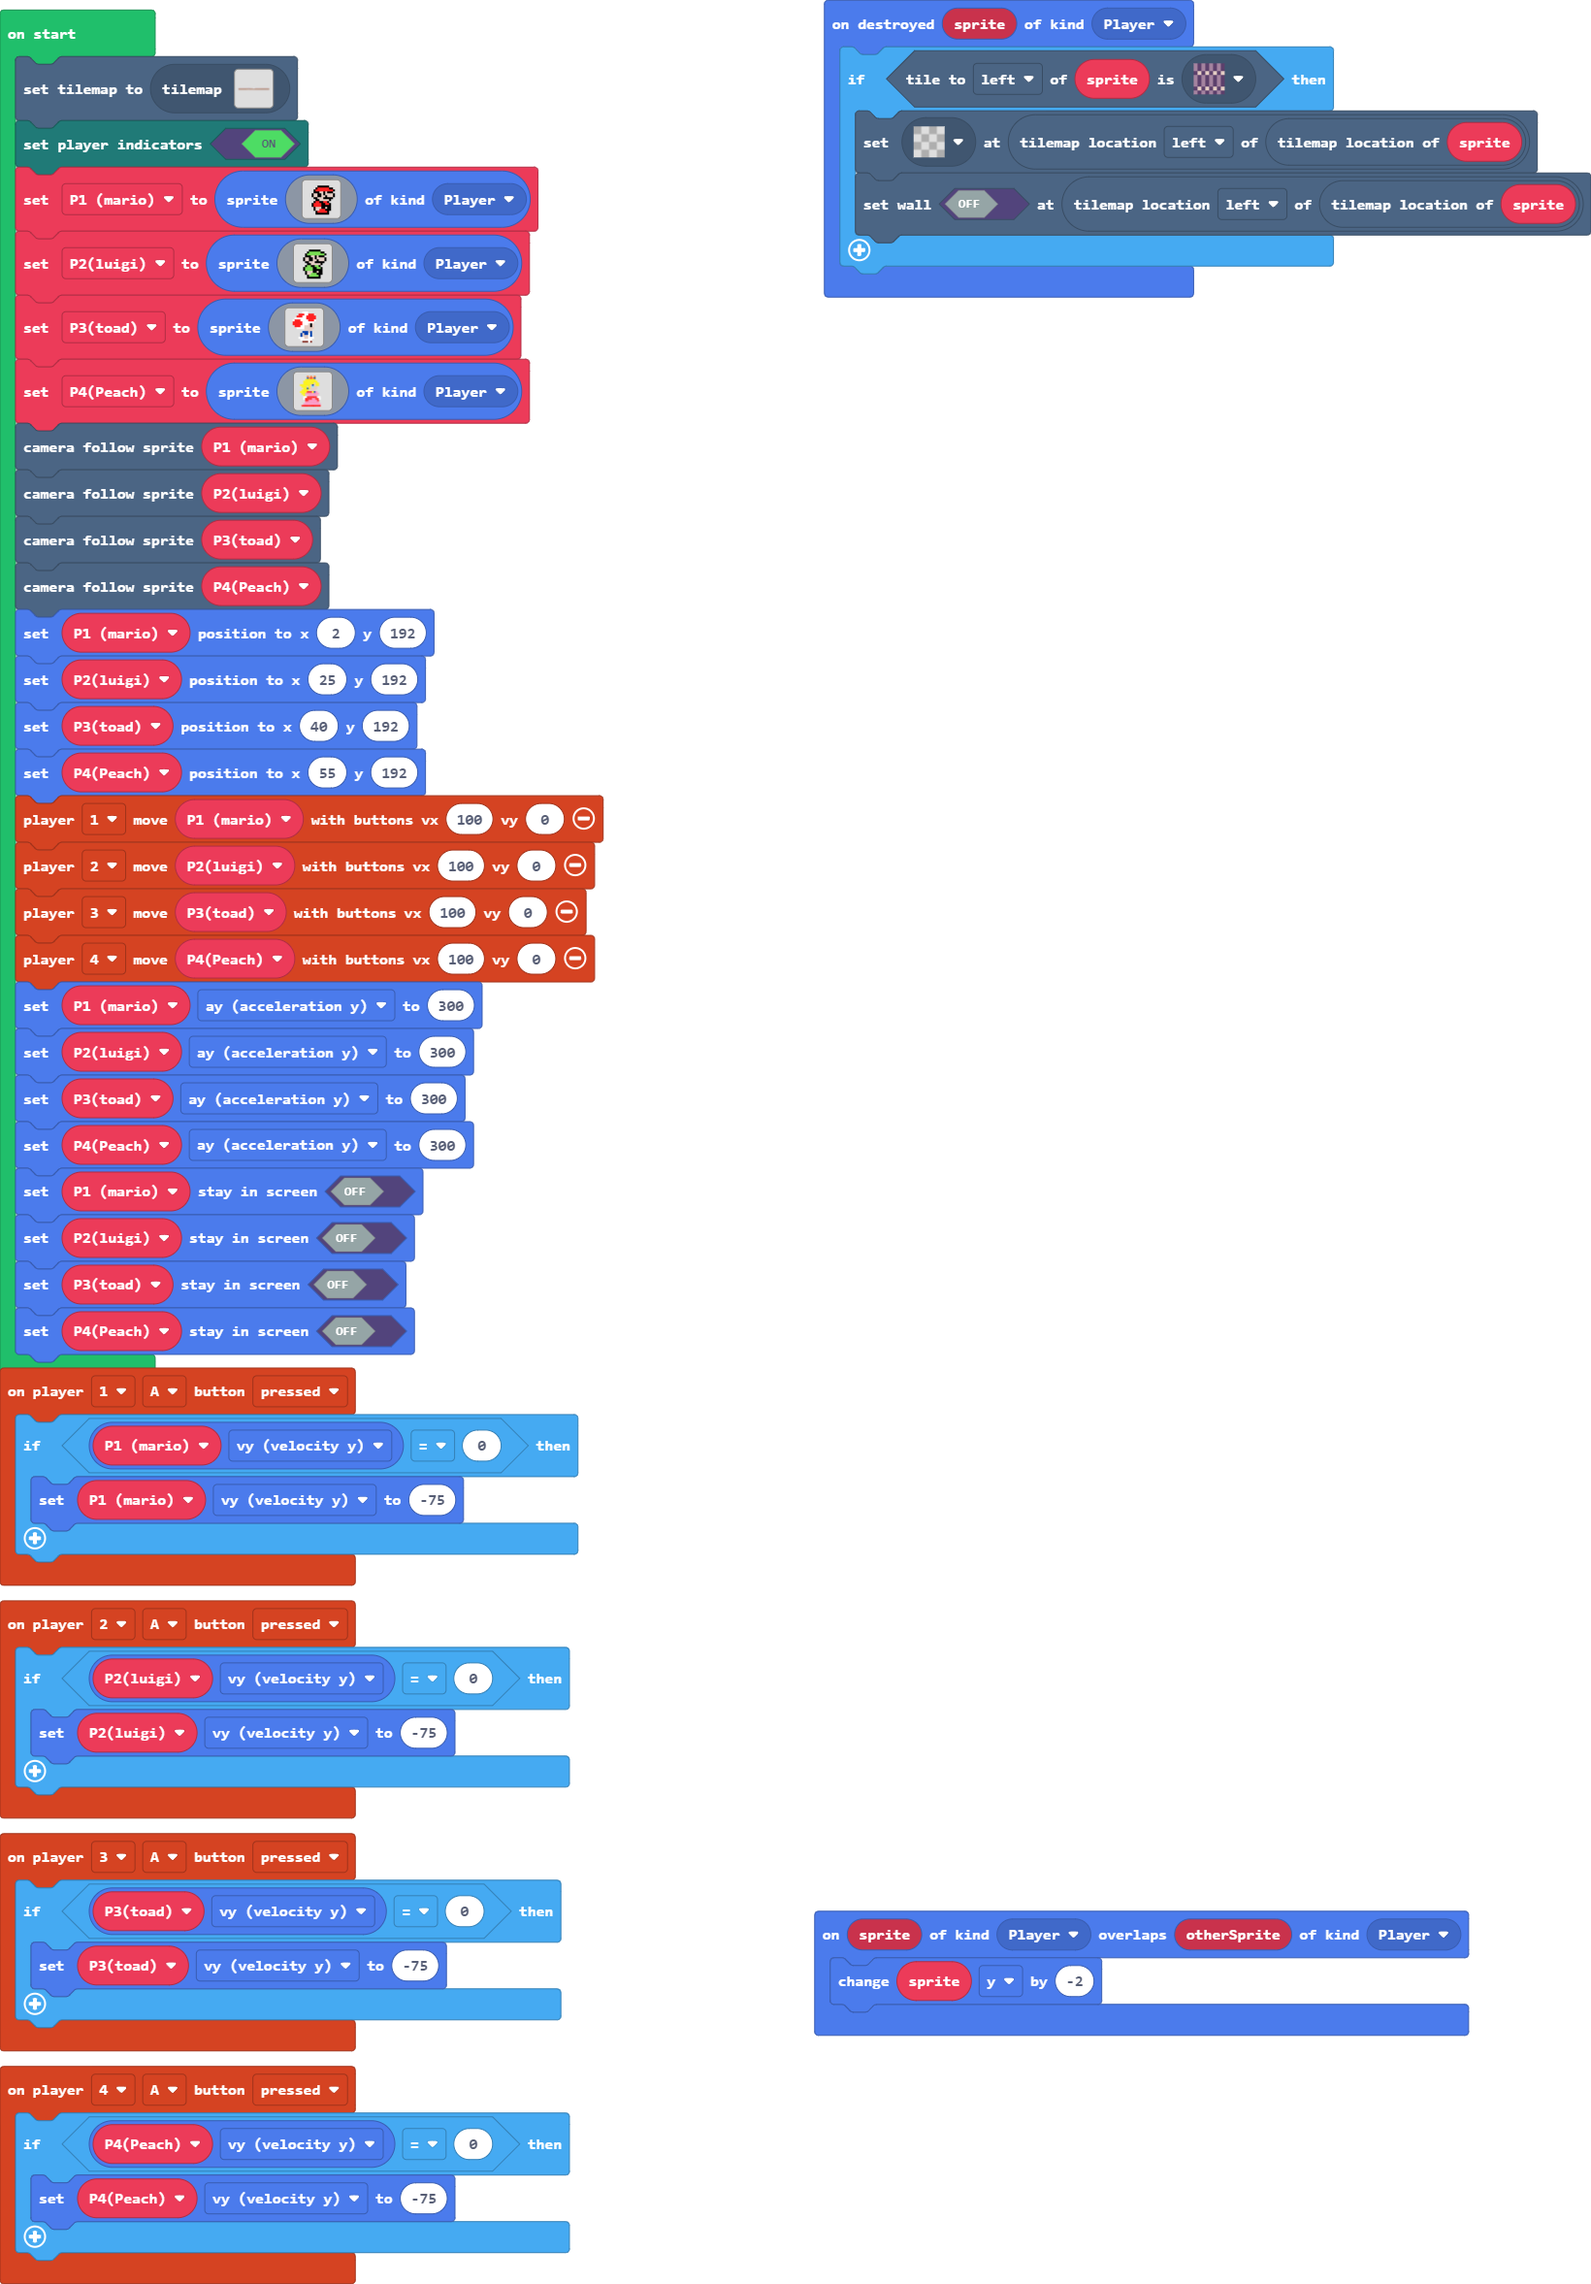
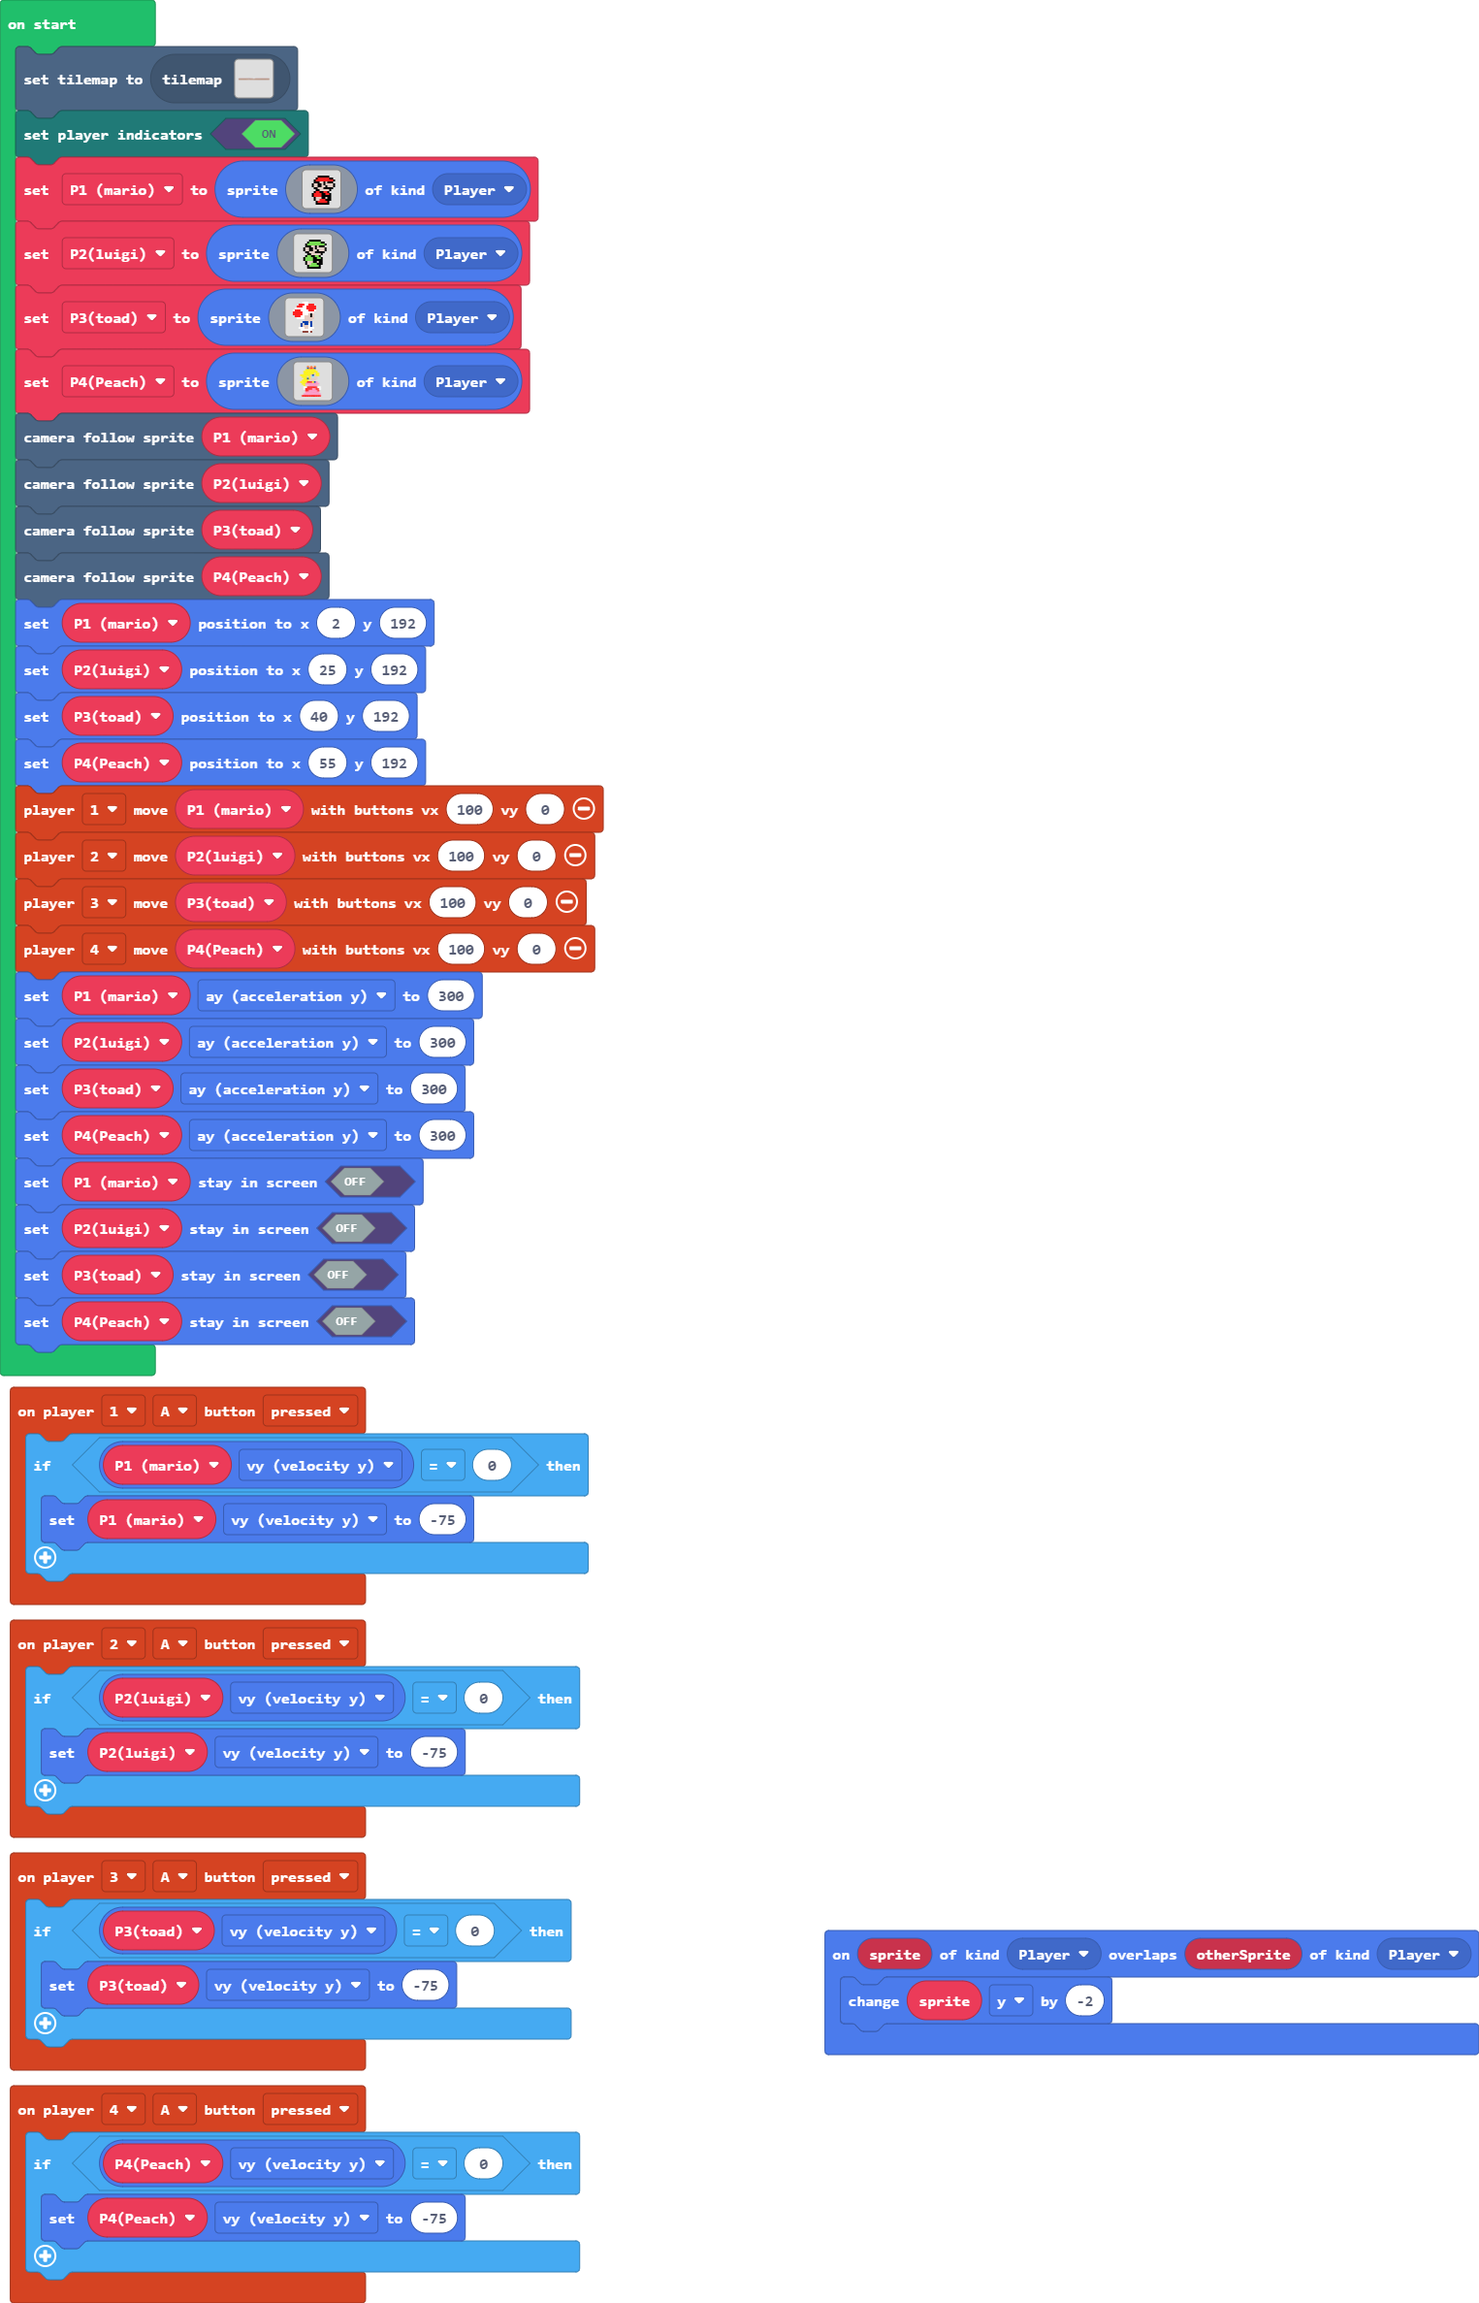
Update main.blocks, main.ts

Changed region(s): [[0.0, 0.0, 0.4315, 1.0], [0.4931, 0.0, 1.0, 0.1551], [0.4931, 0.8373, 1.0, 0.8993]]

diff --git a/main.ts b/main.ts
@@ -21,12 +21,6 @@ controller.player3.onButtonEvent(ControllerButton.A, ControllerButtonEvent.Press
         P3toad.vy = -75
     }
 })
-sprites.onDestroyed(SpriteKind.Player, function (sprite) {
-    if (sprite.tileKindAt(TileDirection.Left, assets.tile`myTile9`)) {
-        tiles.setTileAt(sprite.tilemapLocation().getNeighboringLocation(CollisionDirection.Left), assets.tile`transparency16`)
-        tiles.setWallAt(sprite.tilemapLocation().getNeighboringLocation(CollisionDirection.Left), false)
-    }
-})
 let P4Peach: Sprite = null
 let P3toad: Sprite = null
 let P2luigi: Sprite = null
